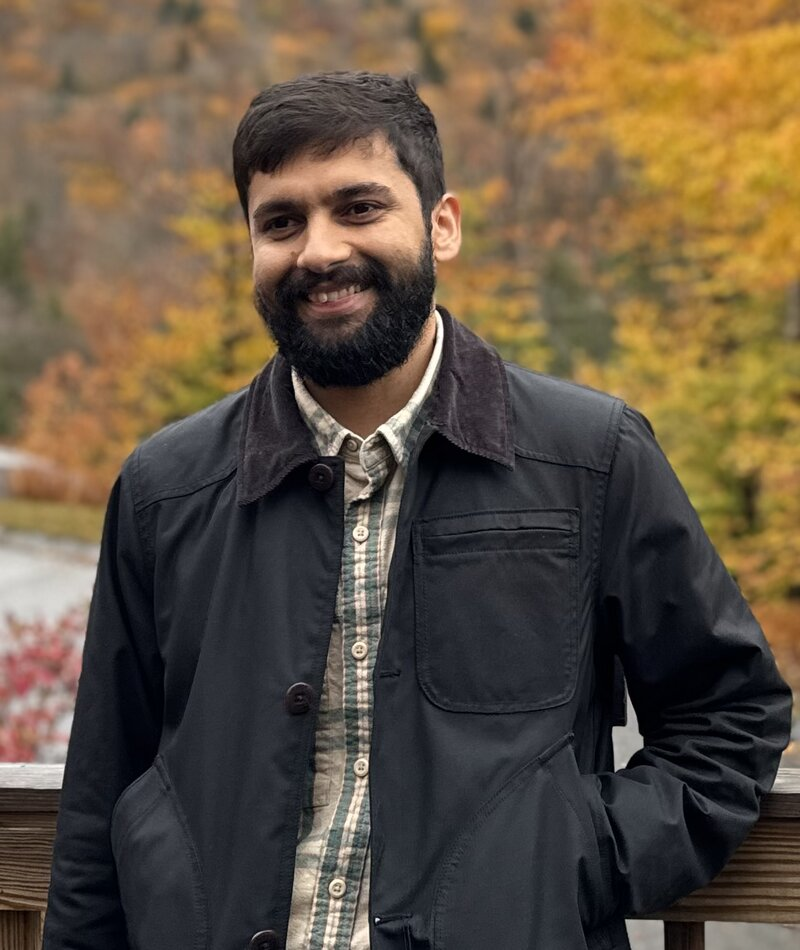
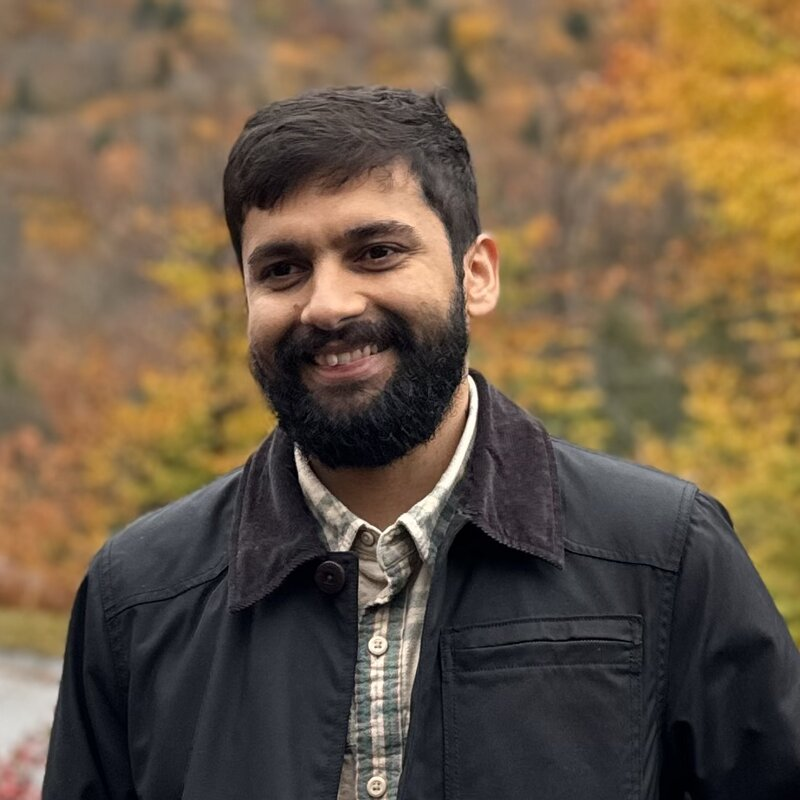
Add news, DOIs, round photo, all papers on homepage
- Square-crop the profile photo and show it circular
- Replace demo news with three dated items and show them on the homepage
- Mark all five papers as selected so the homepage lists them all
- Add DOI, volume and pages to papers.bib, and DOI links in the CV

Claude-Session: https://claude.ai/code/session_01NaXruDsfhAxSth7R1Zcwbn

diff --git a/_pages/about.md b/_pages/about.md
@@ -7,7 +7,7 @@ subtitle: Senior Research Engineer · Saint-Gobain Research North America
 profile:
   align: right
   image: prof_pic.jpg
-  image_circular: false # crops the image to make it circular
+  image_circular: true # crops the image to make it circular
   more_info: >
     <p>Cambridge, MA</p>
 
@@ -15,8 +15,8 @@ selected_papers: true # includes a list of papers marked as "selected={true}"
 social: true # includes social icons at the bottom of the page
 
 announcements:
-  enabled: false # includes a list of news items
-  scrollable: true # adds a vertical scroll bar if there are more than 3 news items
+  enabled: true # includes a list of news items
+  scrollable: false # adds a vertical scroll bar if there are more than 3 news items
   limit: 5 # leave blank to include all the news in the `_news` folder
 
 latest_posts:

diff --git a/_news/2023-01-31-eml-paper.md b/_news/2023-01-31-eml-paper.md
@@ -1,0 +1,8 @@
+---
+layout: post
+date: 2023-01-31
+inline: true
+related_posts: false
+---
+
+Our paper on [geometric optimization of pillars for enhanced adhesion](https://doi.org/10.1016/j.eml.2023.101969) is out in _Extreme Mechanics Letters_.

diff --git a/_news/2023-12-01-phd.md b/_news/2023-12-01-phd.md
@@ -1,0 +1,8 @@
+---
+layout: post
+date: 2023-12-01
+inline: true
+related_posts: false
+---
+
+Completed my PhD in Mechanical Engineering & Applied Mechanics at the University of Pennsylvania.

diff --git a/_news/2024-01-01-saint-gobain.md b/_news/2024-01-01-saint-gobain.md
@@ -1,0 +1,8 @@
+---
+layout: post
+date: 2024-01-01
+inline: true
+related_posts: false
+---
+
+Joined Saint-Gobain Research North America as a Senior Research Engineer in Aerospace R&D.
